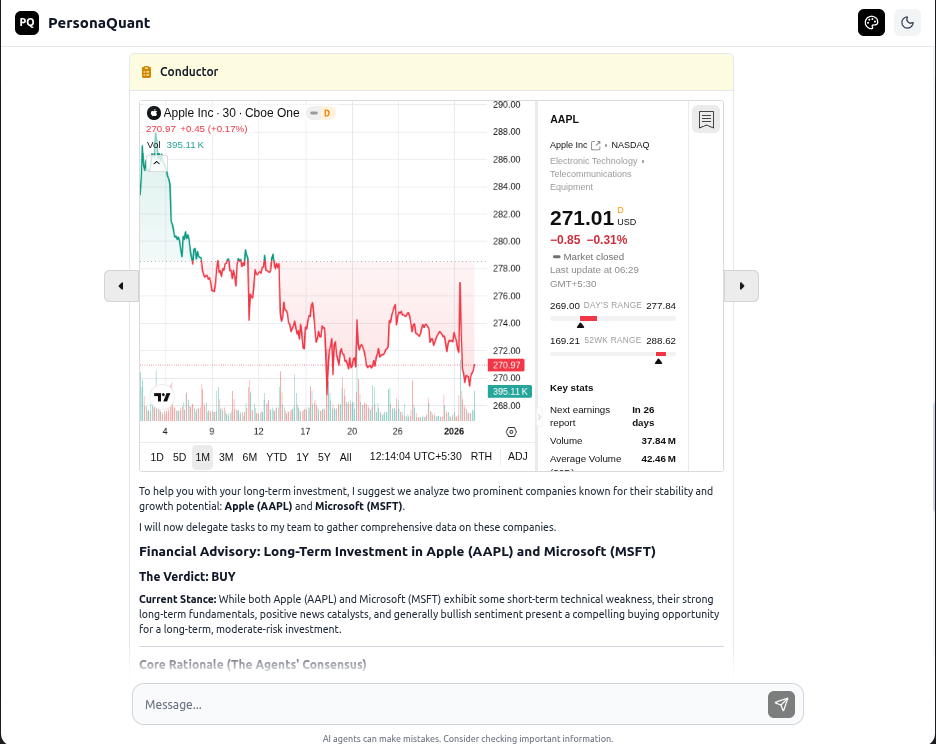
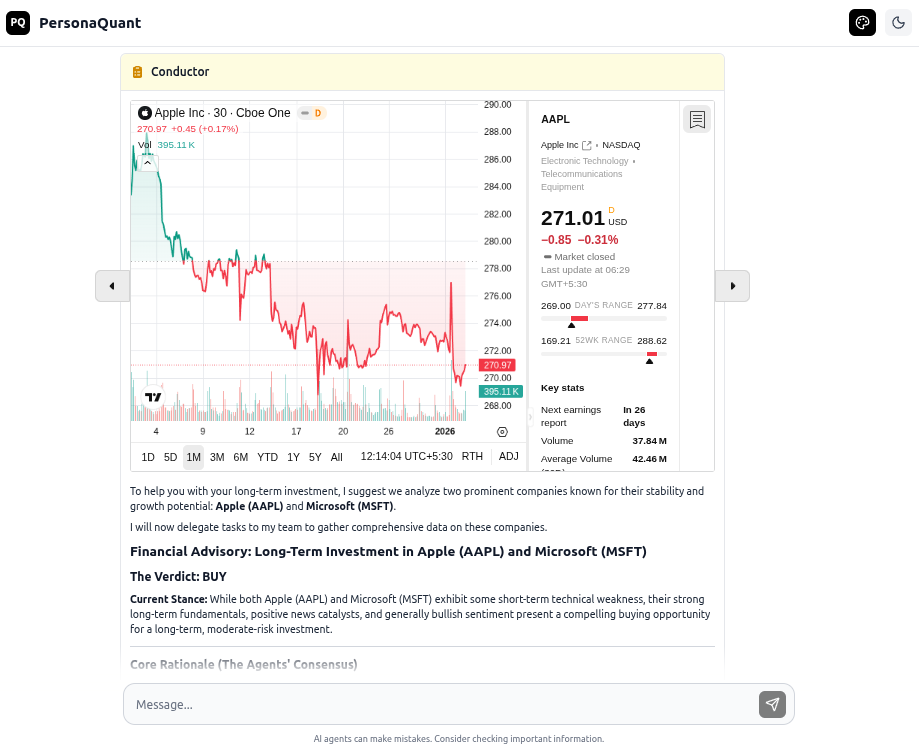
fix: cropped images and new architecture image

diff --git a/README.md b/README.md
@@ -7,7 +7,7 @@ This repository contains the backend code for PersonaQuant, a multi-agent AI sys
 Here are some screenshots showcasing the backend in action:
 
 <p align="center">
-  <img src="assets/all_agents.png" alt="All agents overview" width="60%" />
+  <img src="assets/all_agents.png" alt="All agents overview" width="65%" />
 </p>
 
 <p align="center">
@@ -15,11 +15,21 @@ Here are some screenshots showcasing the backend in action:
 </p>
 
 <p align="center">
-  <img src="assets/final_response.png" alt="Final response example" width="60%" />
+  <img src="assets/final_response.png" alt="Final response example" width="65%" />
 </p>
 
 <p align="center">
   <sub><b>Final Response from Conductor Agent</b></sub>
+</p>
+
+# Architecture Overview
+
+<p align="center">
+  <img src="assets/arch.png" alt="System Architecture Diagram" width="65%" />
+</p>
+
+<p align="center">
+  <sub><b>System Architecture Diagram</b></sub>
 </p>
 
 ## Prerequisites
@@ -51,7 +61,6 @@ uv sync
 ```
 
 3. Set up environment variables:
-
 
 ```bash
 cp .env.example .env